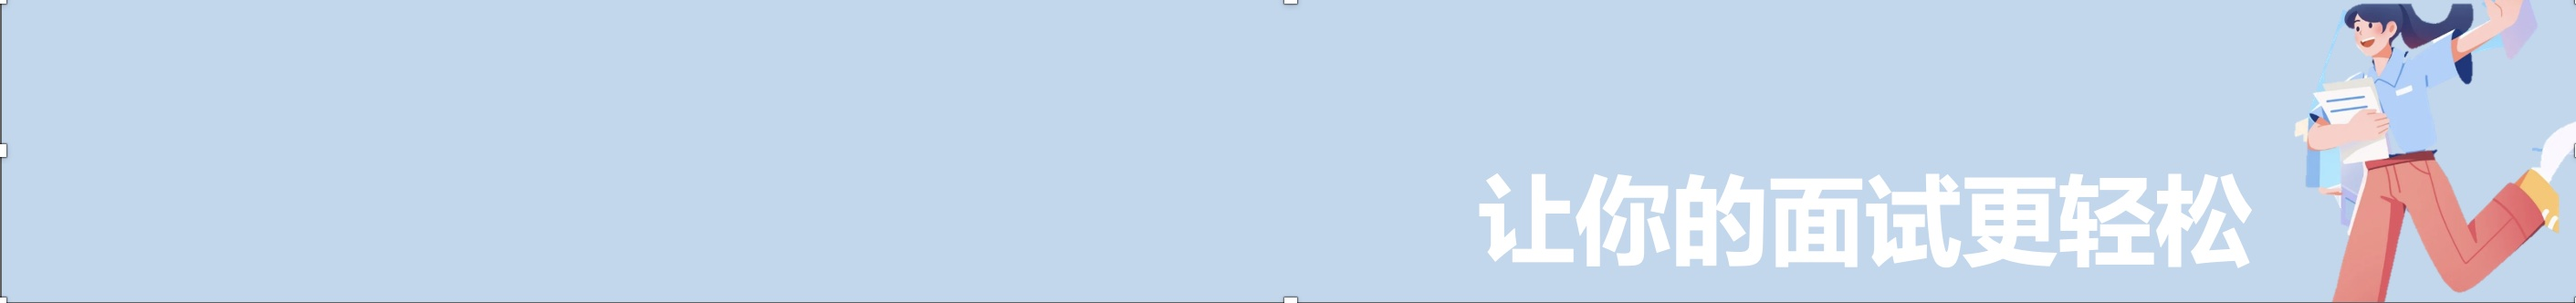
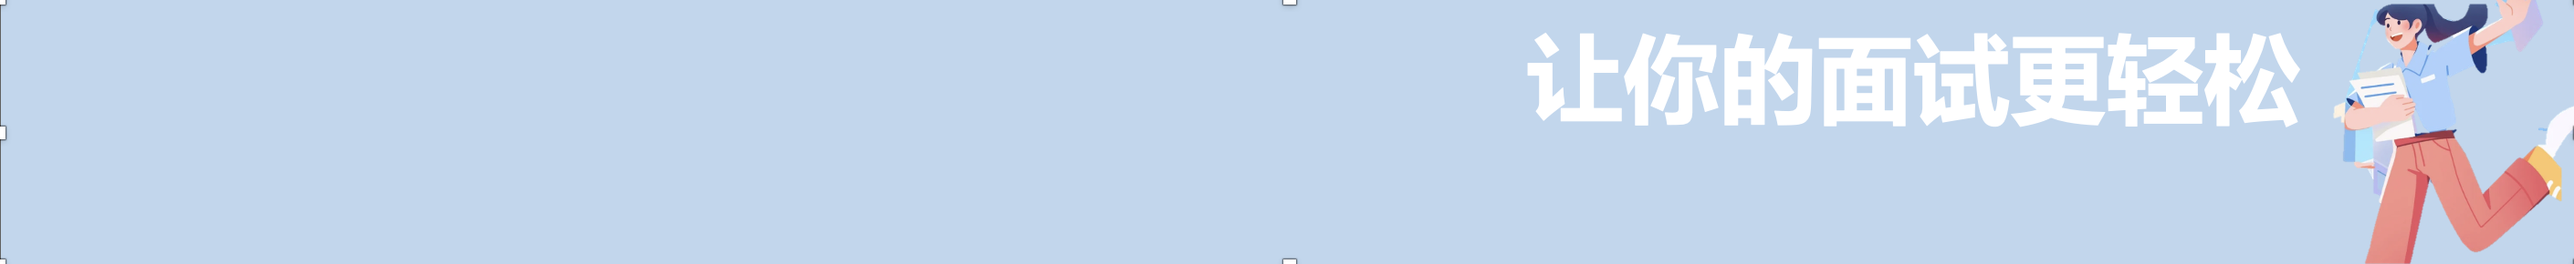
6 1 8

Changed region(s): [[0.0, 0.0, 1.0, 1.0]]

diff --git a/src/components/DashboardUpload.vue b/src/components/DashboardUpload.vue
@@ -24,8 +24,7 @@
         <span class="card-title">{{ item.title }}</span>
       </div>
       <div class="card-description">
-        基于讯飞星火X1大语言模型，分析报告生成约需3分钟，预计消耗3000token，中途请不要退出。
-        大模型输出完毕后，才可导出报告为 PDF 或 Markdown 文件！
+        基于讯飞星火X1大语言模型，分析报告生成约需3分钟，预计消耗2500token，中途请不要退出。
       </div>
     </div>
 
@@ -93,6 +92,7 @@ import { ref, computed, onMounted, nextTick } from 'vue'
 import { ElMessage } from 'element-plus'
 import request from '@/utils/request'
 import { Loading } from '@element-plus/icons-vue'
+import { marked } from 'marked'
 
 const uploading = ref(false)
 const progress = ref(0)
@@ -110,14 +110,14 @@ const radarData = ref([0, 0, 0, 0, 0, 0])
 
 const cardList = [
   { index: '一、', title: '语言逻辑' },
-  { index: '二、', title: '面试题预测' },
-  { index: '三、', title: '面部表情' },
-  { index: '四、', title: '眼神交流' },
-  { index: '五、', title: '技能匹配' },
-  { index: '六、', title: '专业知识' }
+  { index: '二、', title: '面部表情' },
+  { index: '三、', title: '眼神交流' },
+  { index: '四、', title: '技能匹配' },
+  { index: '五、', title: '专业知识' },
+  { index: '六、', title: '情感语调' }
 ]
 
-const radarIndicators = ['语言逻辑', '情感语调', '专业知识', '技能匹配', '眼神交流', '面部表情']
+const radarIndicators = ['语言逻辑', '面部表情', '眼神交流', '技能匹配', '专业知识', '情感语调']
 const radarOption = computed(() => ({
   title: { text: '综合能力分析', left: 'center', top: 10 },
   tooltip: {},
@@ -135,7 +135,7 @@ const radarOption = computed(() => ({
 
 function extractRadarScores(markdown: string): number[] {
   const scoreMap: Record<string, number> = {}
-  const regex = /([语言逻辑情感语调专业知识技能匹配眼神交流面部表情]{3,})[：:（(\s]*?(\d{2})\s*(?:\/100)?/g
+  const regex = /([语言逻辑面部表情眼神交流技能匹配专业知识]{3,})[：:（(\s]*?(\d{2})\s*(?:\/100)?/g
   let match: RegExpExecArray | null
   while ((match = regex.exec(markdown)) !== null) {
     const label = match[1].trim()
@@ -338,8 +338,11 @@ const analyzeVideo = async () => {
   padding: 16px;
   font-size: 14px;
   color: #333;
-  text-align: center;
+  text-align: left;
+  width: 1200px;
+  /* 设置固定宽度 */
   max-width: 100%;
+  /* 确保不超过父容器宽度 */
 }
 
 .header-row {
@@ -426,5 +429,23 @@ const analyzeVideo = async () => {
   white-space: pre-wrap;
   word-break: break-word;
   overflow-wrap: break-word;
+}
+
+.stream-text h1,
+.stream-text h2 {
+  font-weight: bold;
+  margin: 16px 0 8px;
+  border-bottom: 1px solid #eaecef;
+}
+
+.stream-text p {
+  margin: 10px 0;
+}
+
+.stream-text code {
+  background: #f2f2f2;
+  padding: 2px 4px;
+  border-radius: 4px;
+  font-family: monospace;
 }
 </style>

diff --git a/src/components/ResumeUpload.vue b/src/components/ResumeUpload.vue
@@ -1,6 +1,6 @@
 <template>
   <div class="resume-upload-wrapper">
-    <h2>简历上传</h2>
+    <h2>简历分析</h2>
 
     <div class="upload-header">
       <el-upload :show-file-list="false" :before-upload="beforeUpload" :http-request="handleUpload">
@@ -17,6 +17,26 @@
         </el-icon>
       </el-button>
     </div>
+
+
+    <div class="contains-wrapper">
+      <span class="contains">报告包含：</span> 基础信息、教育背景、工作经历、专业技能、行业对比
+    </div>
+
+
+    <!-- 分析维度卡片展示 -->
+    <div class="card-wrapper">
+      <div class="card-item" v-for="item in cardList" :key="item.index">
+        <span class="card-index">{{ item.index }}</span>
+        <span class="card-title">{{ item.title }}</span>
+      </div>
+    </div>
+
+    <!-- 分析提示信息 -->
+    <div class="card-tip">
+      基于讯飞星火X1大语言模型，分析报告生成约需1分钟，预计消耗500token，中途请不要退出。
+    </div>
+
 
     <el-input type="textarea" v-model="resumeText" placeholder="请输入或粘贴简历内容..." :rows="10" class="resume-textarea" />
 
@@ -47,6 +67,15 @@ import * as pdfjsLib from 'pdfjs-dist'
 import * as echarts from 'echarts'
 import { marked } from 'marked'
 import { useResumeStore } from '@/stores/resumeStore'
+
+const cardList = [
+  { index: '一、', title: '基础信息' },
+  { index: '二、', title: '教育背景' },
+  { index: '三、', title: '工作经历' },
+  { index: '四、', title: '专业技能' },
+  { index: '五、', title: '行业对比' }
+]
+
 
 // 配置 marked
 marked.setOptions({
@@ -309,5 +338,49 @@ const renderRadarChart = async () => {
   background-color: transparent;
   margin: 0;
   padding: 0;
+}
+
+.card-wrapper {
+  display: flex;
+  justify-content: center;
+  flex-wrap: wrap;
+  gap: 16px;
+  margin: 20px 0;
+}
+
+.card-item {
+  background: #fafbfc;
+  border-radius: 12px;
+  box-shadow: 0 4px 16px rgba(0, 0, 0, 0.05);
+  padding: 20px 24px;
+  min-width: 120px;
+  text-align: center;
+  font-size: 16px;
+  color: #333;
+}
+
+.card-index {
+  color: #409EFF;
+  font-weight: bold;
+  margin-right: 4px;
+}
+
+.card-title {
+  font-weight: 500;
+}
+
+.card-tip {
+  background-color: #eef6ff;
+  padding: 12px 20px;
+  border-radius: 10px;
+  text-align: left;
+  color: #333;
+  font-size: 14px;
+  line-height: 1.6;
+}
+
+.contains-wrapper {
+  text-align: center;
+  margin-top: 20px;
 }
 </style>

diff --git a/src/components/KnowledgeUpload.vue b/src/components/KnowledgeUpload.vue
@@ -1,7 +1,9 @@
 <template>
     <div class="upload-wrapper">
-        <h2>上传知识库（仅支持 PDF）</h2>
-
+        <h2>上传知识库</h2>
+        <div class="card-tip">
+            Weaviate RAG：智能向量检索+大模型问答，精准高效。
+        </div>
         <el-upload class="upload-section" :http-request="handleCustomUpload" :show-file-list="true"
             :before-upload="beforeUpload" :on-success="handleSuccess" :on-error="handleError" accept=".pdf">
             <el-button type="primary">选择并上传 PDF 文件</el-button>
@@ -74,5 +76,15 @@ const handleError = (err: any) => {
 
 .upload-section {
     margin-top: 20px;
+}
+
+.card-tip {
+    background-color: #eef6ff;
+    padding: 12px 20px;
+    border-radius: 10px;
+    text-align: left;
+    color: #333;
+    font-size: 14px;
+    line-height: 1.6;
 }
 </style>

diff --git a/src/components/QuestionKnowledge.vue b/src/components/QuestionKnowledge.vue
@@ -1,7 +1,9 @@
 <template>
   <div class="question-wrapper">
-    <h2>提问</h2>
-
+    <h2>知识库</h2>
+    <div class="card-tip">
+      qwen3 也可能会犯错，请核查重要信息。
+    </div>
     <!-- 输入框 -->
     <el-input v-model="question" placeholder="请输入你的问题，例如：Vue 的响应式原理是怎样的？" type="textarea" :rows="4"
       class="question-input" :disabled="typing" />
@@ -138,5 +140,15 @@ const clearAll = () => {
   border-radius: 6px;
   padding: 10px;
   overflow: auto;
+}
+
+.card-tip {
+  background-color: #eef6ff;
+  padding: 12px 20px;
+  border-radius: 10px;
+  text-align: left;
+  color: #333;
+  font-size: 14px;
+  line-height: 1.6;
 }
 </style>
